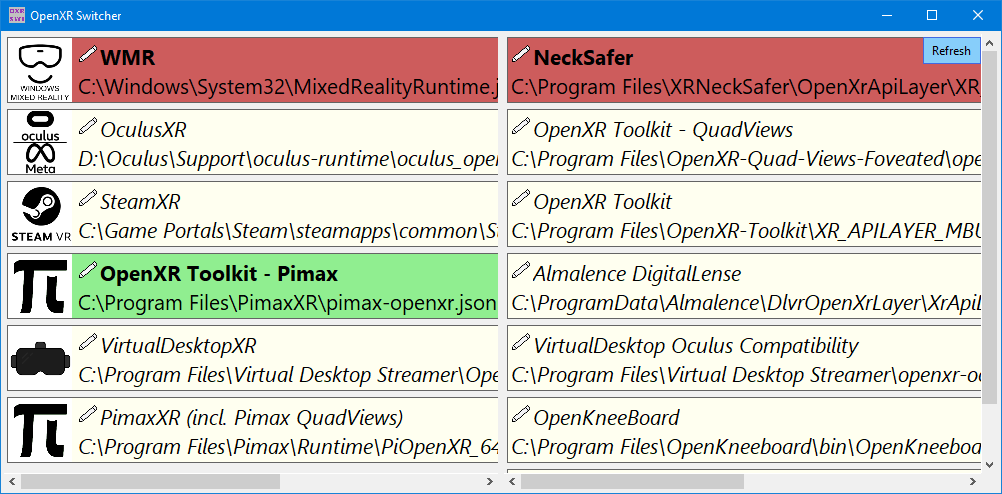
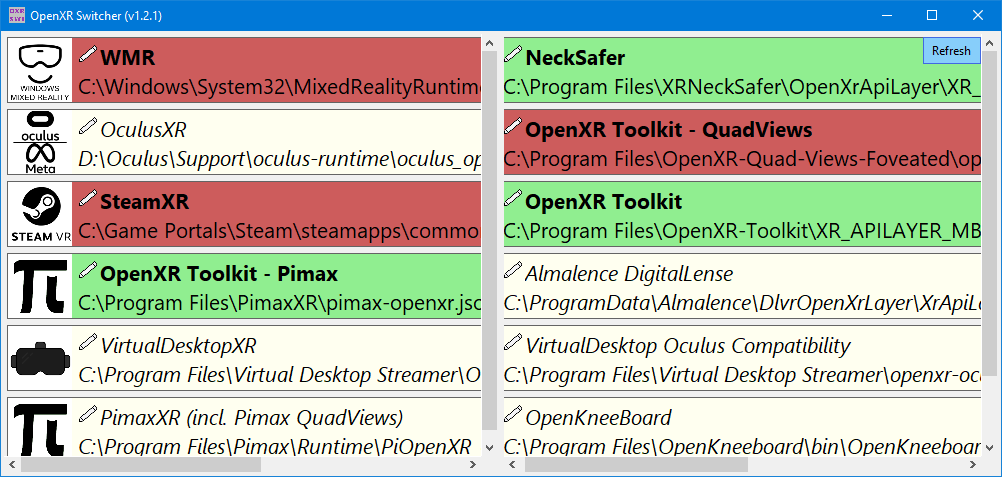
add version information to the title

diff --git a/WindowMain.cs b/WindowMain.cs
@@ -1,6 +1,7 @@
 using Microsoft.Win32;
 using System.Collections.Generic;
 using System.Diagnostics;
+using System.Reflection;
 using System.Windows.Forms;
 using System.Windows.Forms.VisualStyles;
 using System.Xml.Linq;
@@ -12,6 +13,10 @@ namespace OpenXR_Switcher
         public WindowMain()
         {
             InitializeComponent();
+
+            // display version in the title
+            Version version = Assembly.GetExecutingAssembly().GetName().Version;
+            Text = Text + " (v" + version.Major + "." + version.Minor + "." + version.Build + ")";
         }
 
         private void RepositionRefreshButton()

diff --git a/README.md b/README.md
@@ -58,6 +58,8 @@ Reads the Windows registry which OpenXR runtimes/layers are installed, checks if
 
 ## Version History
 
+* 1.2.1
+	* add version information to the title
 * 1.2
 	* added Rename function, that allows for custom names
 	* these are added to the local users registry (HKCU\Software\Hotshot\OpenXRSwitcher)
